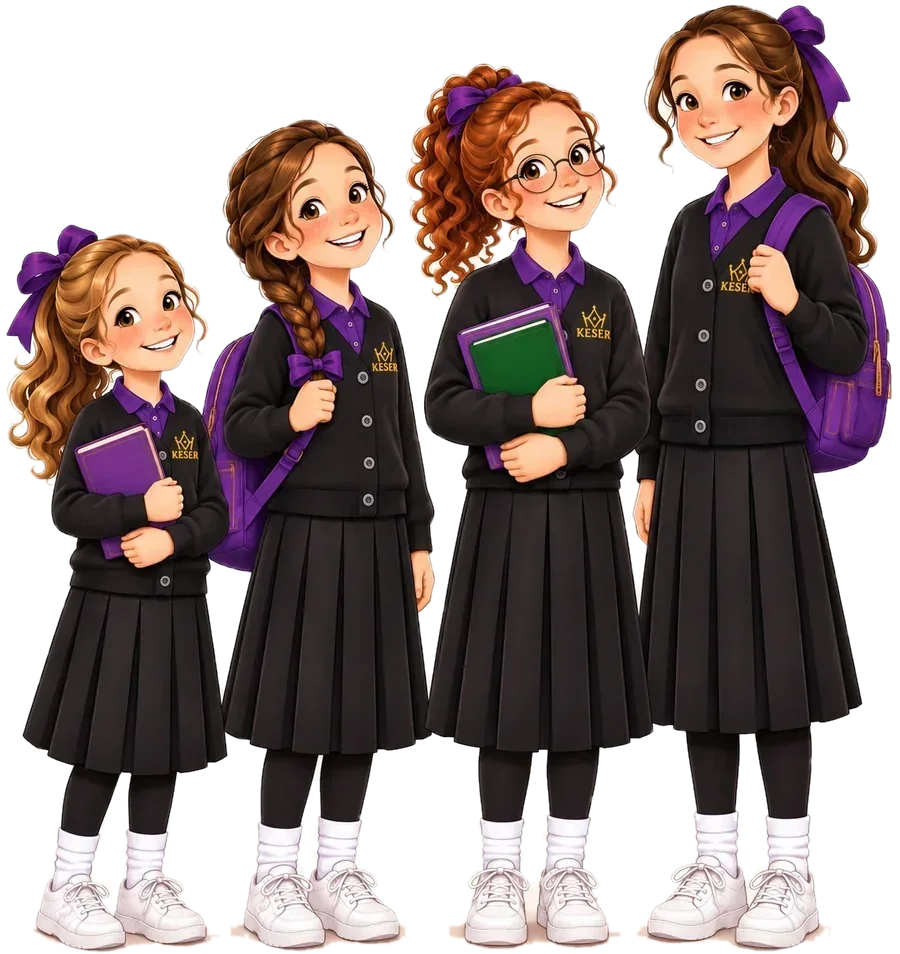
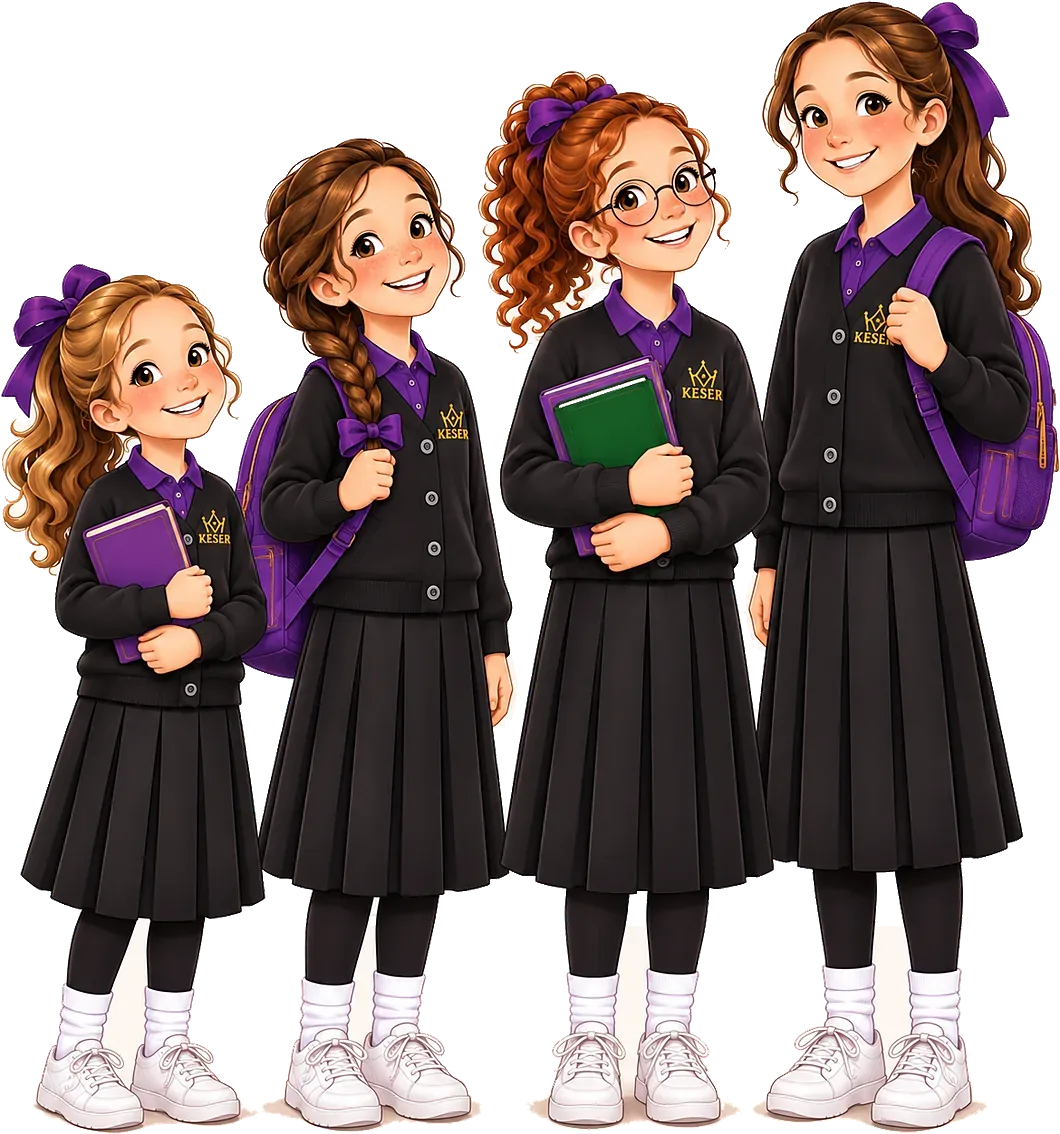
Keser sign-in: the four girls recut from the original, crisper, with no cream left in the hair or on the edges
M. Heinemann (owner), 2026-11-27: "The girls in the beginning still look a little bit unclear."

Claude-Session: https://claude.ai/code/session_01Qi24zbp3wA6ijLBfGQjp9P

diff --git a/art/CATALOG.md b/art/CATALOG.md
@@ -516,7 +516,7 @@ Bands: K1 = K–1, B23 = 2–3, E45 = 4–5, M68 = 6–8, staff. Characters by c
 | keser-girl-uniform-book | `pics/keser-girl-uniform-book.webp`, `originals/keser-girl-uniform-book.jpg` | Keser Girls only. A smiling girl with a wavy brown ponytail and a purple bow in the Keser Academy uniform (purple polo, black cardigan with the gold Keser crown, black pleated skirt, black tights, white sneakers), hugging a purple book (cut-out). EXCEPTION (picture rules, 'no words in pictures'): the cardigan's crown is stitched with the word KESER; allowed by M. Heinemann, who sent the picture to use in Keser Girls 3.0, 2026-11-26. |  | K1, B23, E45, M68 | sent by M. Heinemann (owner of Keser Girls 3.0) in her Claude session, 2026-11-26, made with an AI image tool | made for Tashbar Baltimore with an AI image tool, owned by the school | Tashbar Baltimore | M. Heinemann (owner); background cut out by the Keser builder | not used yet | 2026-11-26 | A smiling girl in the Keser uniform hugging a purple book | 05f890fd841e |
 | keser-girl-uniform-book-tall | `pics/keser-girl-uniform-book-tall.webp`, `originals/keser-girl-uniform-book-tall.jpg` | Keser Girls only. The same girl, a little older, in the Keser Academy uniform (purple polo, black cardigan with the gold Keser crown, black pleated skirt, black tights, white sneakers) with white socks, holding a purple book at her side (cut-out). EXCEPTION (picture rules, 'no words in pictures'): the cardigan's crown is stitched with the word KESER; allowed by M. Heinemann, who sent the picture to use in Keser Girls 3.0, 2026-11-26. |  | K1, B23, E45, M68 | sent by M. Heinemann (owner of Keser Girls 3.0) in her Claude session, 2026-11-26, made with an AI image tool | made for Tashbar Baltimore with an AI image tool, owned by the school | Tashbar Baltimore | M. Heinemann (owner); background cut out by the Keser builder | not used yet | 2026-11-26 | An older girl in the Keser uniform holding a purple book | 18961934d3e1 |
 | keser-girl-uniform-welcome | `pics/keser-girl-uniform-welcome.webp`, `originals/keser-girl-uniform-welcome.jpg` | Keser Girls only. The same girl in the Keser Academy uniform (purple polo, black cardigan with the gold Keser crown, black pleated skirt, black tights, white sneakers), a purple backpack with a small crown on one shoulder, her other hand held out in welcome (cut-out). EXCEPTION (picture rules, 'no words in pictures'): the cardigan's crown is stitched with the word KESER; allowed by M. Heinemann, who sent the picture to use in Keser Girls 3.0, 2026-11-26. |  | K1, B23, E45, M68 | sent by M. Heinemann (owner of Keser Girls 3.0) in her Claude session, 2026-11-26, made with an AI image tool | made for Tashbar Baltimore with an AI image tool, owned by the school | Tashbar Baltimore | M. Heinemann (owner); background cut out by the Keser builder | not used yet | 2026-11-26 | A girl in the Keser uniform with a purple backpack, holding out her hand in welcome | dc466de2b83e |
-| keser-girls-uniform-four | `pics/keser-girls-uniform-four.webp`, `originals/keser-girls-uniform-four.jpg` | Keser Girls only. Four girls of different ages in the Keser Academy uniform (purple polo, black cardigan with the gold Keser crown, black pleated skirt, black tights, white socks and sneakers), with books and purple backpacks (cut-out). EXCEPTION (picture rules, 'no words in pictures'): the word KESER on the cardigans' crown; allowed by M. Heinemann, who sent the picture to use in Keser Girls 3.0, 2026-11-26. |  | K1, B23, E45, M68 | sent by M. Heinemann (owner of Keser Girls 3.0) by email to herself for the app, 2026-11-26, made with an AI image tool | made for Tashbar Baltimore with an AI image tool, owned by the school | Tashbar Baltimore | M. Heinemann (owner); the four girls cut out by the Keser builder | not used yet | 2026-11-27 | Four smiling Keser girls in the school uniform | efa3d792e486 |
+| keser-girls-uniform-four | `pics/keser-girls-uniform-four.webp`, `originals/keser-girls-uniform-four.jpg` | Keser Girls only. Four girls of different ages in the Keser Academy uniform (purple polo, black cardigan with the gold Keser crown, black pleated skirt, black tights, white socks and sneakers), with books and purple backpacks (cut-out). EXCEPTION (picture rules, 'no words in pictures'): the word KESER on the cardigans' crown; allowed by M. Heinemann, who sent the picture to use in Keser Girls 3.0, 2026-11-26. |  | K1, B23, E45, M68 | sent by M. Heinemann (owner of Keser Girls 3.0) by email to herself for the app, 2026-11-26, made with an AI image tool | made for Tashbar Baltimore with an AI image tool, owned by the school | Tashbar Baltimore | M. Heinemann (owner); the four girls cut out by the Keser builder | not used yet | 2026-11-27 | Four smiling Keser girls in the school uniform | 0d3a2e7a3686 |
 | keser-girls-uniform-sisters | `pics/keser-girls-uniform-sisters.webp`, `originals/keser-girls-uniform-sisters.jpg` | Keser Girls only. Two sisters, younger and older, in the Keser Academy uniform (purple polo, black cardigan with the gold Keser crown, black pleated skirt, black tights, white sneakers), each holding a purple book (cut-out). EXCEPTION (picture rules, 'no words in pictures'): the cardigan's crown is stitched with the word KESER; allowed by M. Heinemann, who sent the picture to use in Keser Girls 3.0, 2026-11-26. |  | K1, B23, E45, M68 | sent by M. Heinemann (owner of Keser Girls 3.0) in her Claude session, 2026-11-26, made with an AI image tool | made for Tashbar Baltimore with an AI image tool, owned by the school | Tashbar Baltimore | M. Heinemann (owner); background cut out by the Keser builder | not used yet | 2026-11-26 | Two sisters in the Keser uniform, each holding a purple book | f821608d870e |
 | keser-globe-empty | `pics/keser-globe-empty.webp`, `originals/keser-globe-empty.png` | Keser Girls 3.0 treasure (cut-out): empty glowing pink crystal globe on a rose-gold stand |  | K1, B23, E45, M68 | Keser picture order 3 (keser/PICTURE-ORDERS.md), 2026-11-26 | made for Tashbar Baltimore with an AI image tool, owned by the school | Tashbar Baltimore | Keser builder, HoS image account, checked against the order (stray edge specks removed) | not used yet | 2026-11-26 | A glowing pink crystal globe on a jeweled rose-gold stand | a7eba0b6464d |
 | keser-globe-kodesh | `pics/keser-globe-kodesh.webp`, `originals/keser-globe-kodesh.png` | Keser Girls 3.0 treasure, Kodesh (cut-out): crystal globe holding tiny Shabbos candlesticks and a challah |  | K1, B23, E45, M68 | Keser picture order 3 (keser/PICTURE-ORDERS.md), 2026-11-26 | made for Tashbar Baltimore with an AI image tool, owned by the school | Tashbar Baltimore | Keser builder, HoS image account, checked against the order (stray edge specks removed) | not used yet | 2026-11-26 | A crystal globe holding two lit Shabbos candlesticks and a challah | 133b05227401 |
